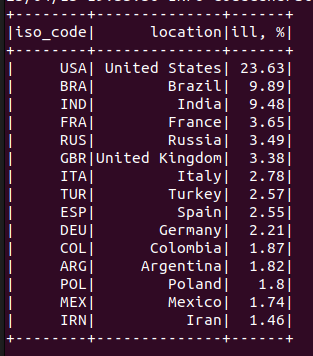
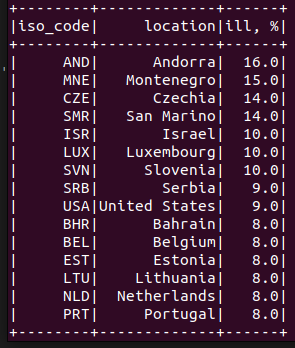
change

Changed region(s): [[0.0, 0.0, 1.0, 1.0]]

diff --git a/task_2.py b/task_2.py
@@ -1,20 +1,19 @@
 from pyspark.sql import SparkSession
 from pyspark.sql.functions import *
+from pyspark.sql.window import Window
 
 spark = SparkSession.builder.appName("Simple Spark app").master("local[2]").getOrCreate()
 
 df = spark.read.option('header', True).option('inferSchema', True).csv("/home/oxana/Documents/Spark/сoviddata.csv")
 
-data = df.select('location', 'new_cases', 'date').where((col('date').between('2021-03-29', '2021-03-31'))&(~col('iso_code').like('OWID%'))).sort(col('new_cases').desc())
+data = df.select(col('location'), 'new_cases', 'date').where((col('date').between('2021-03-24', '2021-03-31'))&(~col('iso_code').like('OWID%')))
 
-max_value = data.groupBy('location').agg(first('new_cases').alias('max_cases'), first('date').alias('date')).sort(col('max_cases').desc()).limit(10)
+max_value = data.groupBy('location').agg(max('new_cases').alias('max_cases')).sort(col('max_cases').desc()).limit(10)
 
-result = max_value.select('date', 'location', 'max_cases')
+result = data.alias('a').join(max_value.alias('b'), col('a.new_cases') ==col('b.max_cases'),"inner").select('date', col('a.location'), 'new_cases')
 
 result.show()
 
 # result_save = result.write.options(header=True).csv("sample_result/TOP_10_country_max_cases_covid19.csv")
 
 spark.stop()
-
-

diff --git a/task_3.py b/task_3.py
@@ -6,17 +6,15 @@ spark = SparkSession.builder.appName("Simple Spark app").master("local[2]").getO
 
 df = spark.read.option('header', True).option('inferSchema', True).csv("/home/oxana/Documents/Spark/сoviddata.csv")
 
-data = df.select('location', col('new_cases').alias('new_cases_today'), 'date').where((col('date').between('2021-03-29', '2021-03-31'))&(col('location') == 'Russia'))
+data = df.select('location', col('new_cases').alias('new_cases_today'), 'date').where((col('date').between('2021-03-24', '2021-03-31'))&(col('location') == 'Russia'))
 
 w = Window().partitionBy('location').orderBy('date')
 
 win_today = data.withColumn('new_cases_yesterday',(lag('new_cases_today').over(w)))
 
-result = win_today.select('date', 'new_cases_today', 'new_cases_yesterday', (col('new_cases_today') - col('new_cases_yesterday')).alias('delta'))
+result = win_today.select('date', 'new_cases_today', 'new_cases_yesterday', (col('new_cases_today') - col('new_cases_yesterday')).alias('delta')).na.fill(value=0)
 
 result.show()
-
-# result_save = result.write.options(header=True).csv("sample_result/TOP_10_country_max_cases_covid19.csv")
 
 spark.stop()
 

diff --git a/task_1.py b/task_1.py
@@ -5,14 +5,9 @@ spark = SparkSession.builder.appName("Simple Spark app").master("local[2]").getO
 
 df = spark.read.option('header', True).option('inferSchema', True).csv("/home/oxana/Documents/Spark/сoviddata.csv") 
 
-data = df.select('iso_code', 'location', 'total_cases').where((col('date')== '2021-03-31'))
-
-total = data.select(("total_cases")).where((col('location') == "World")).alias("total").collect()[0][0]
-
-result = data.select('iso_code', 'location', round(((col('total_cases')/total)*100), 2).alias('ill, %')).where(~col('iso_code').like('OWID%')).sort(col('ill, %').desc()).limit(15)
+result = df.select('iso_code', 'location', (round(col( 'total_cases')/col('population')*100)).alias('ill, %')).\
+where((col('date')== '2021-03-31')&(~col('iso_code').like('OWID%'))).sort(col('ill, %').desc()).limit(15)
 
 result.show()
-
-# result_save = result.write.options(header=True).csv("sample_result/TOP_15_country_ill_covid19.csv")
 
 spark.stop()
